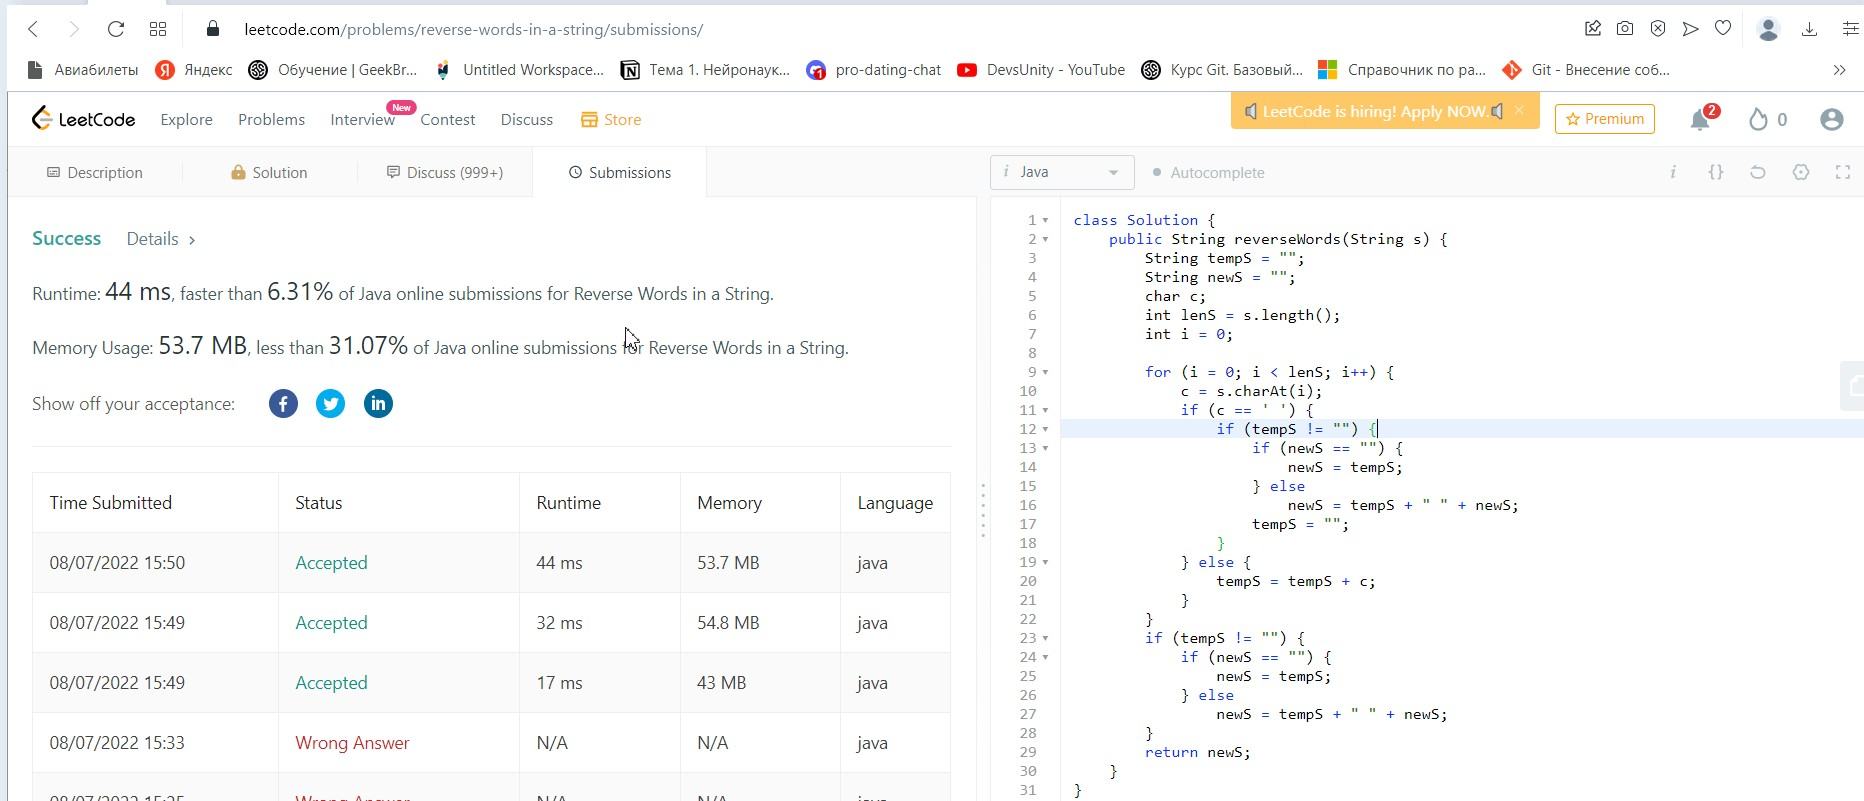
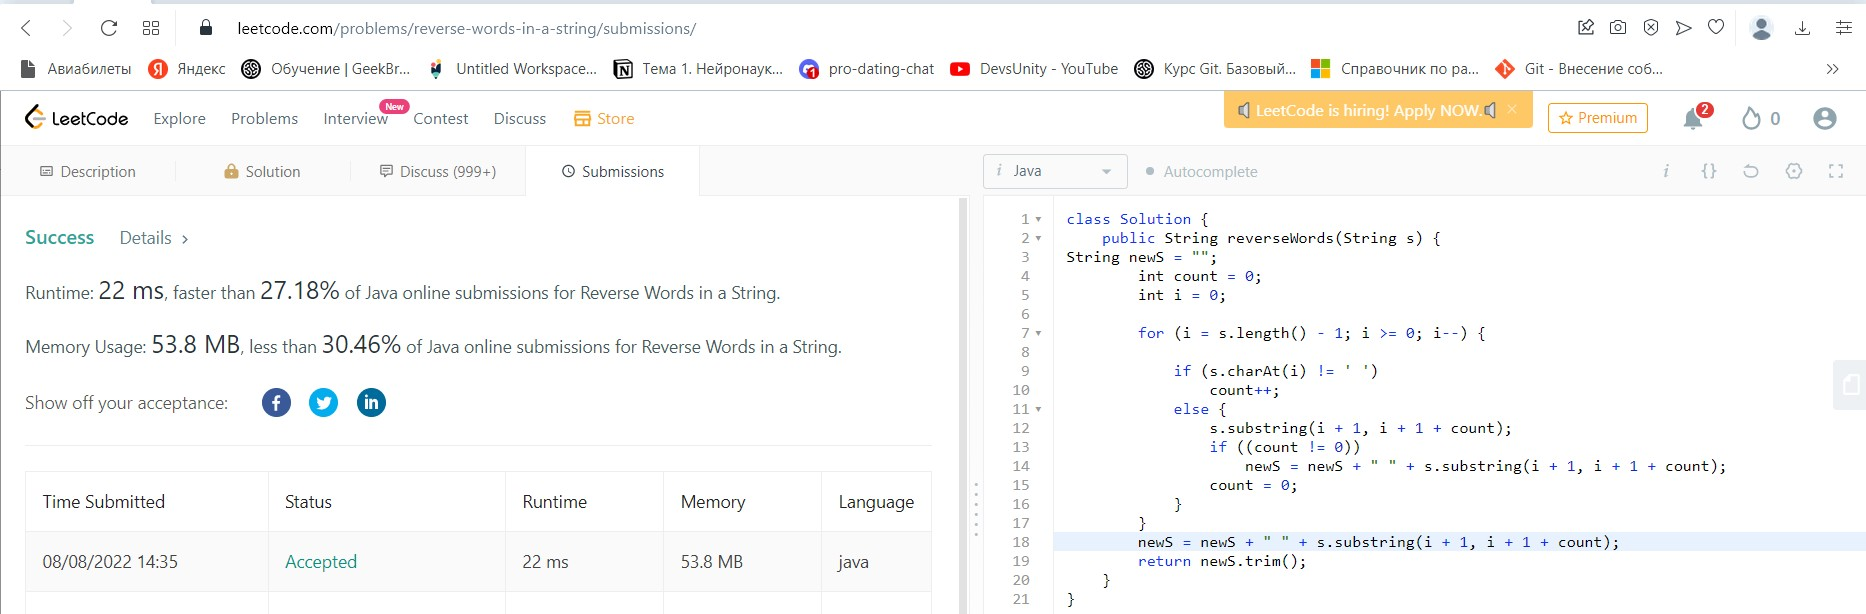
исправлены 2я и 3я задачи

diff --git a/HomeWork_1/ReverseWordsInString.java b/HomeWork_1/ReverseWordsInString.java
@@ -1,33 +1,25 @@
 public class ReverseWordsInString {
 
     public static void main(String[] args) {
-        String s = "blue";
-        String tempS = "";
+        String s = "the sky  is blue ";
         String newS = "";
-        char c;
-        int lenS = s.length();
+        int count = 0;
         int i = 0;
 
-        for (i = 0; i < lenS; i++) {
-            c = s.charAt(i);
-            if (c == ' ') {
-                if (tempS != "") {
-                    if (newS == "") {
-                        newS = tempS;
-                    } else
-                        newS = tempS + " " + newS;
-                    tempS = "";
-                }
-            } else {
-                tempS = tempS + c;
+        for (i = s.length() - 1; i >= 0; i--) {
+
+            if (s.charAt(i) != ' ')
+                count++;
+            else {
+                s.substring(i + 1, i + 1 + count);
+                if ((count != 0))
+                    newS = newS + " " + s.substring(i + 1, i + 1 + count);
+                count = 0;
             }
         }
-        if (tempS != "") {
-            if (newS == "") {
-                newS = tempS;
-            } else
-                newS = tempS + " " + newS;
-        }
-        System.out.println(newS);
+        newS = newS + " " + s.substring(i + 1, i + 1 + count);
+        System.out.println(newS.trim());
+
+//
     }
 }

diff --git a/HomeWork_1/DuplicateZeros.java b/HomeWork_1/DuplicateZeros.java
@@ -9,18 +9,18 @@ public class DuplicateZeros {
         int i = 0;
         int j = 0;
         int n = arr.length - 1;
-        int lenArr = n;
+        int counter = arr.length - 1;
 
-        for (i = 0; i <= lenArr; i++) {
+        for (i = 0; i <= counter; i++) {
             if (arr[i] == 0)
-                if (i == lenArr) j = 1;
-                else lenArr--;
+                if (i == counter) j = 1;
+                else counter--;
         }
-        if (lenArr != n) {
-            if (j == 1) arr[n] = arr[lenArr];
-            for (i = j; i <= lenArr; i++) {
-                arr[n - i] = arr[lenArr - i];
-                if ((arr[lenArr - i] == 0)) {
+        if (counter != n) {
+            if (j == 1) arr[n] = arr[counter];
+            for (i = j; i <= counter; i++) {
+                arr[n - i] = arr[counter - i];
+                if ((arr[counter - i] == 0)) {
                     n--;
                     arr[n - i] = 0;
                 }

diff --git a/HomeWork_1/removeElement.java b/HomeWork_1/removeElement.java
@@ -4,22 +4,16 @@ public class removeElement {
     public static void main(String[] args) {
         int[] nums = {0, 1, 2, 2, 3, 0, 4, 2};
         int val = 2;
-        int i = 0;
-        int j = 0;
+        int copyPos = 0;
         int lenArr = nums.length;
 
-        while (i < lenArr) {
-            if (nums[i] == val) {
-                i++;
-            } else {
-                if (i != j) nums[j] = nums[i];
-                j++;
-                i++;
+        for (int i = 0; i < lenArr; i++) {
+            if ((nums[i] != val)) {
+                nums[copyPos] = nums[i];
+                copyPos++;
             }
         }
-        for (i = j + 1; i < lenArr; i++) nums[i] = 0;
-
+        for (int i = copyPos + 1; i < lenArr; i++) nums[i] = 0;
         System.out.println(Arrays.toString(nums));
-
     }
 }
